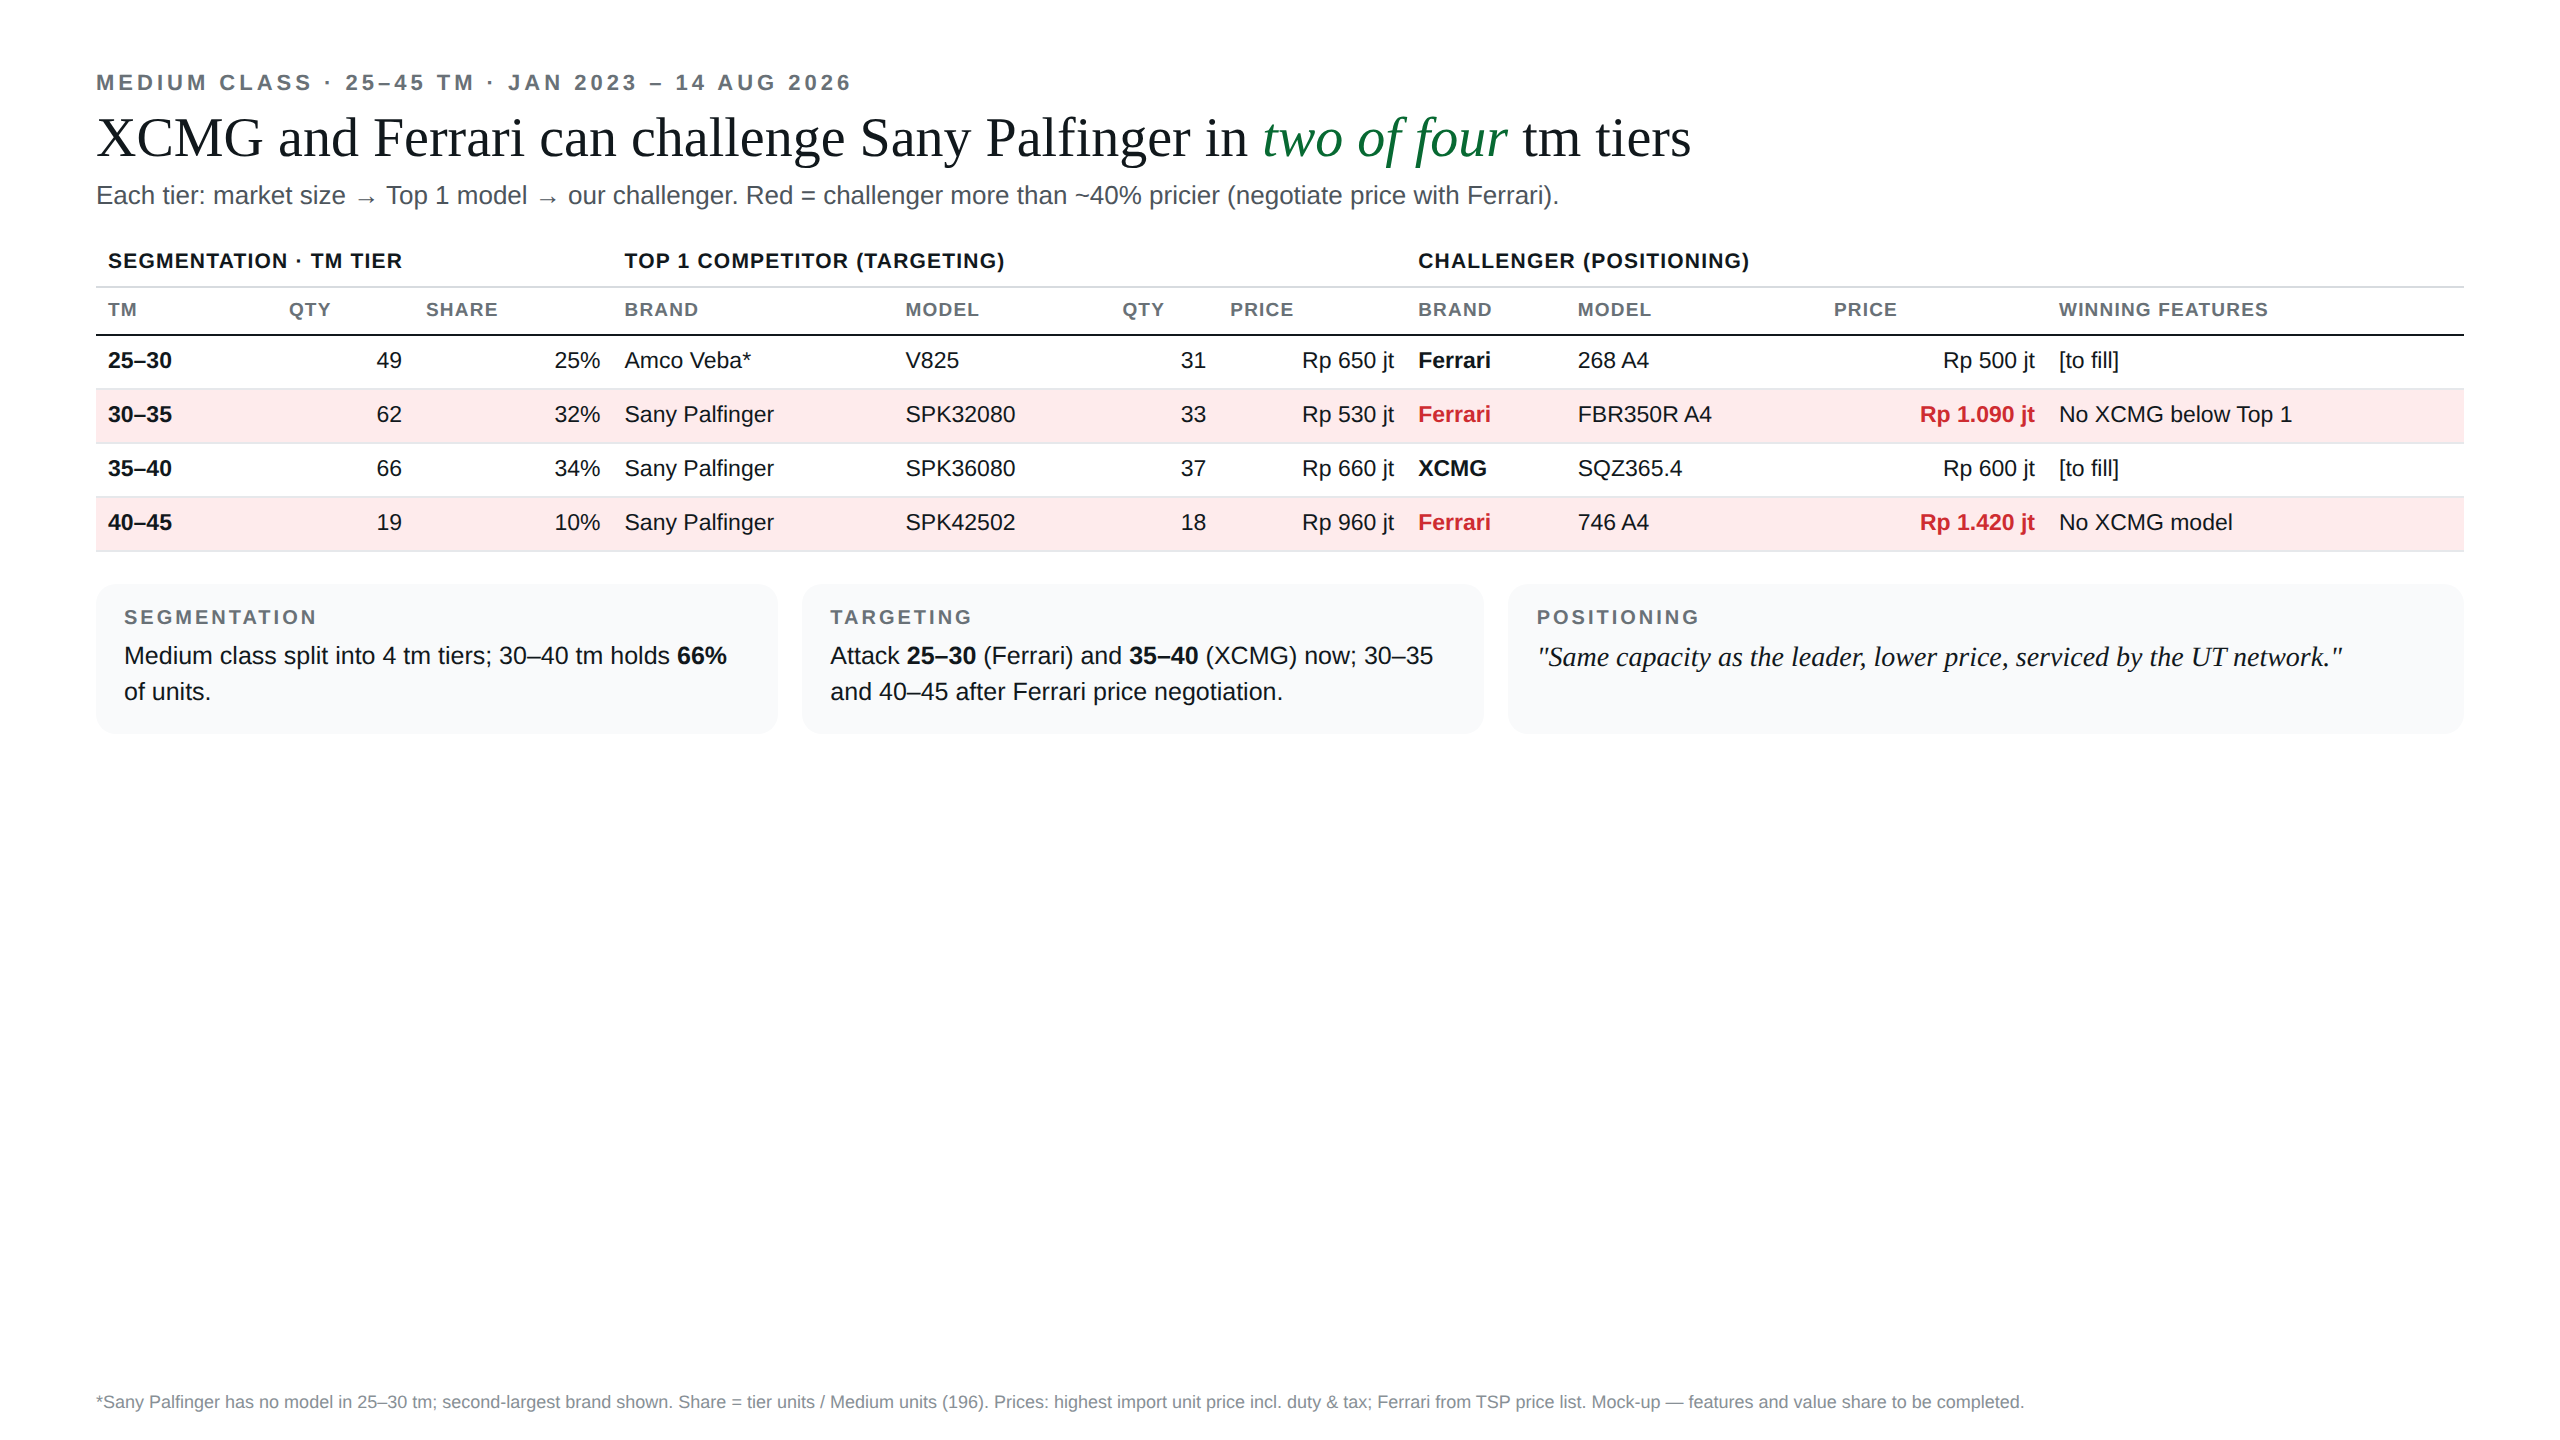
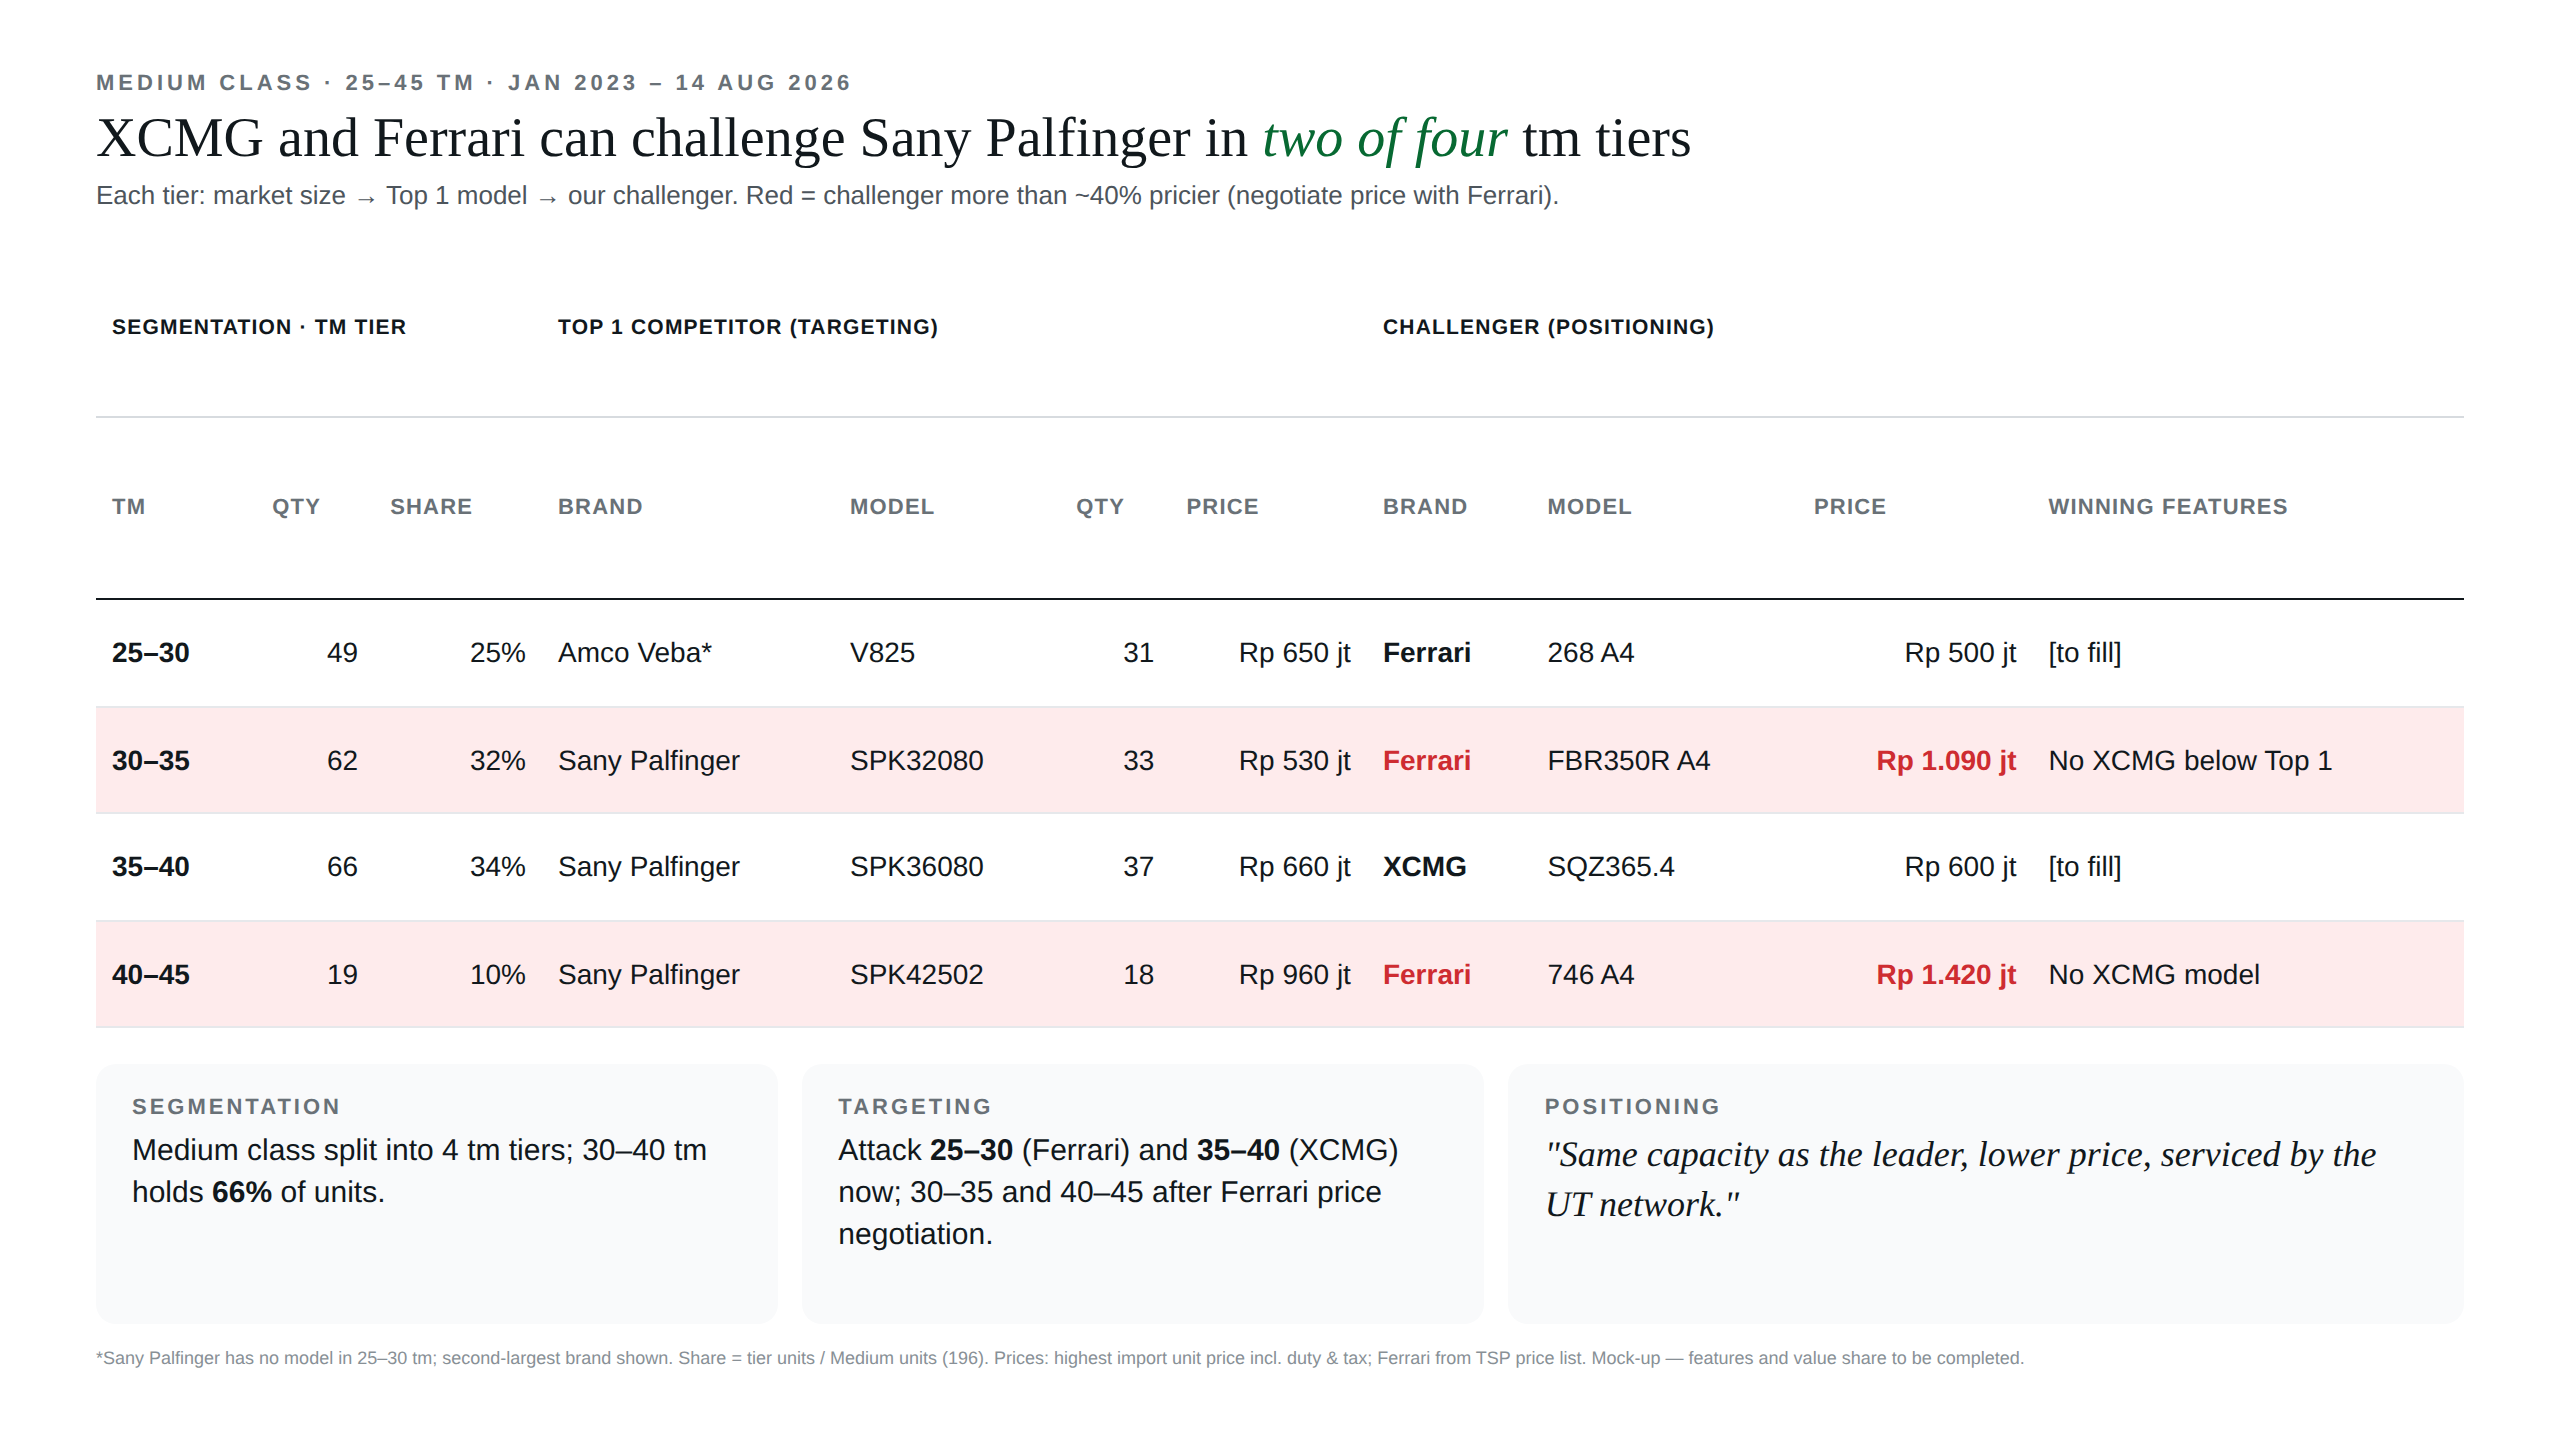
STP mockup: fill slide height
Claude-Session: https://claude.ai/code/session_01Cx9kswyecF7JAB1Rr5vVcV

diff --git a/nedp_deck/stp_table_mockup.html b/nedp_deck/stp_table_mockup.html
@@ -17,6 +17,11 @@ tr.red td{background:#FEEBEC}tr.red td.ch{color:#CE2C31;font-weight:700}
 .c{background:#F9FAFB;border-radius:10px;padding:12px 14px}.c b{font:700 10px Arial;letter-spacing:1.5px;color:#697177;display:block;margin-bottom:5px}
 .c p{margin:0;font-size:12.5px;line-height:1.4}.c p em{font-family:Georgia;font-size:14px}
 .f{position:absolute;bottom:14px;left:48px;right:48px;font-size:9px;color:#889096}
+.s{display:flex;flex-direction:column}
+table{font-size:14px}td{padding:0 8px;height:auto}th{font-size:11px;padding:8px}
+.s table{flex:1}.s tr td{vertical-align:middle}
+.stp{margin-top:18px;min-height:130px}.c{padding:16px 18px}.c p{font-size:15px}.c p em{font-size:18px}.c b{font-size:11px}
+.f{position:static;margin-top:12px}
 </style></head><body><div class="s">
 <div class="k">Medium class · 25–45 tm · Jan 2023 – 14 Aug 2026</div>
 <h1>XCMG and Ferrari can challenge Sany Palfinger in <i>two of four</i> tm tiers</h1>
